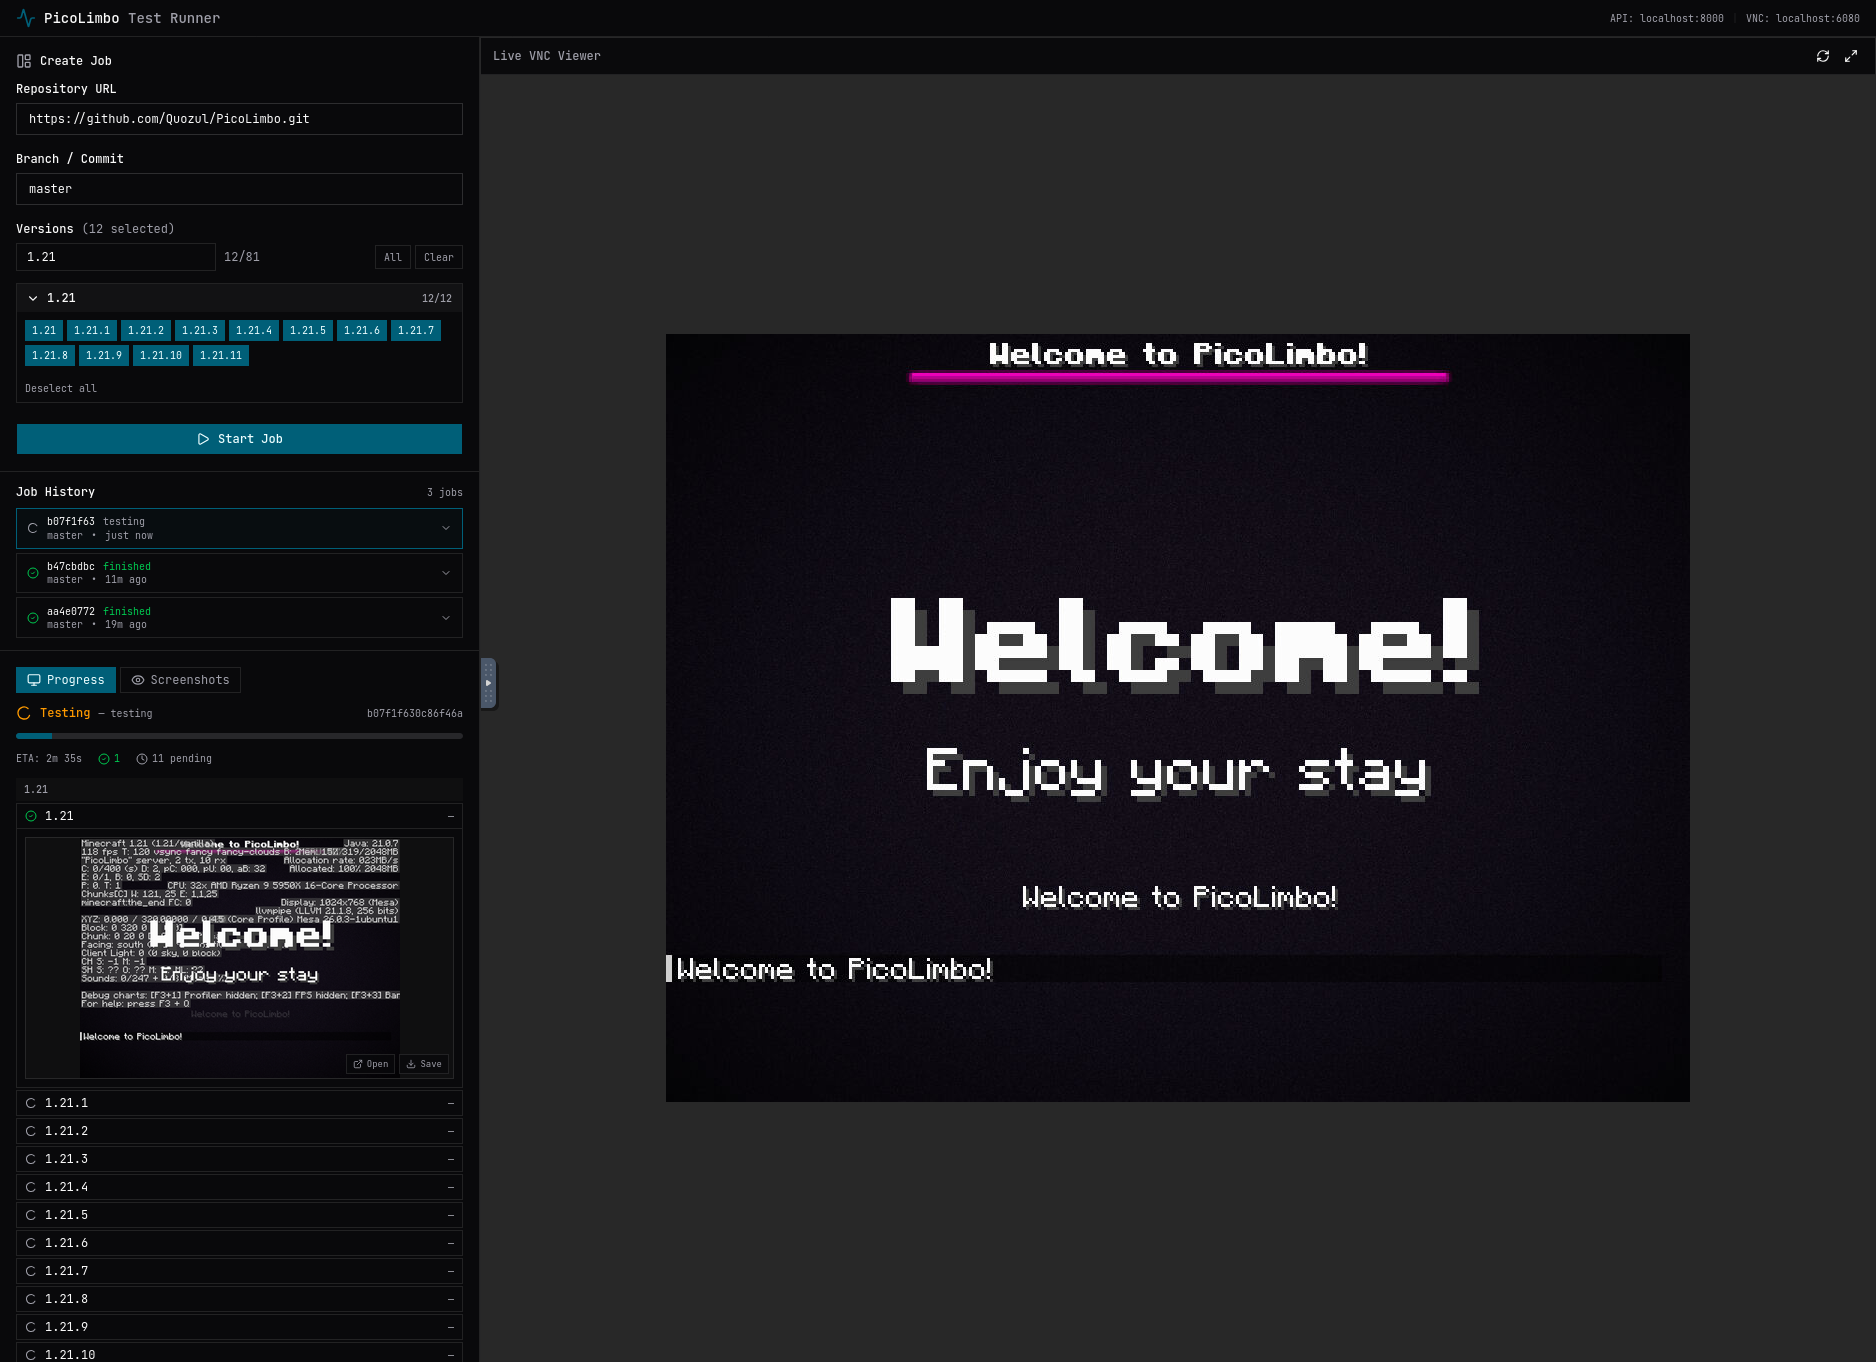
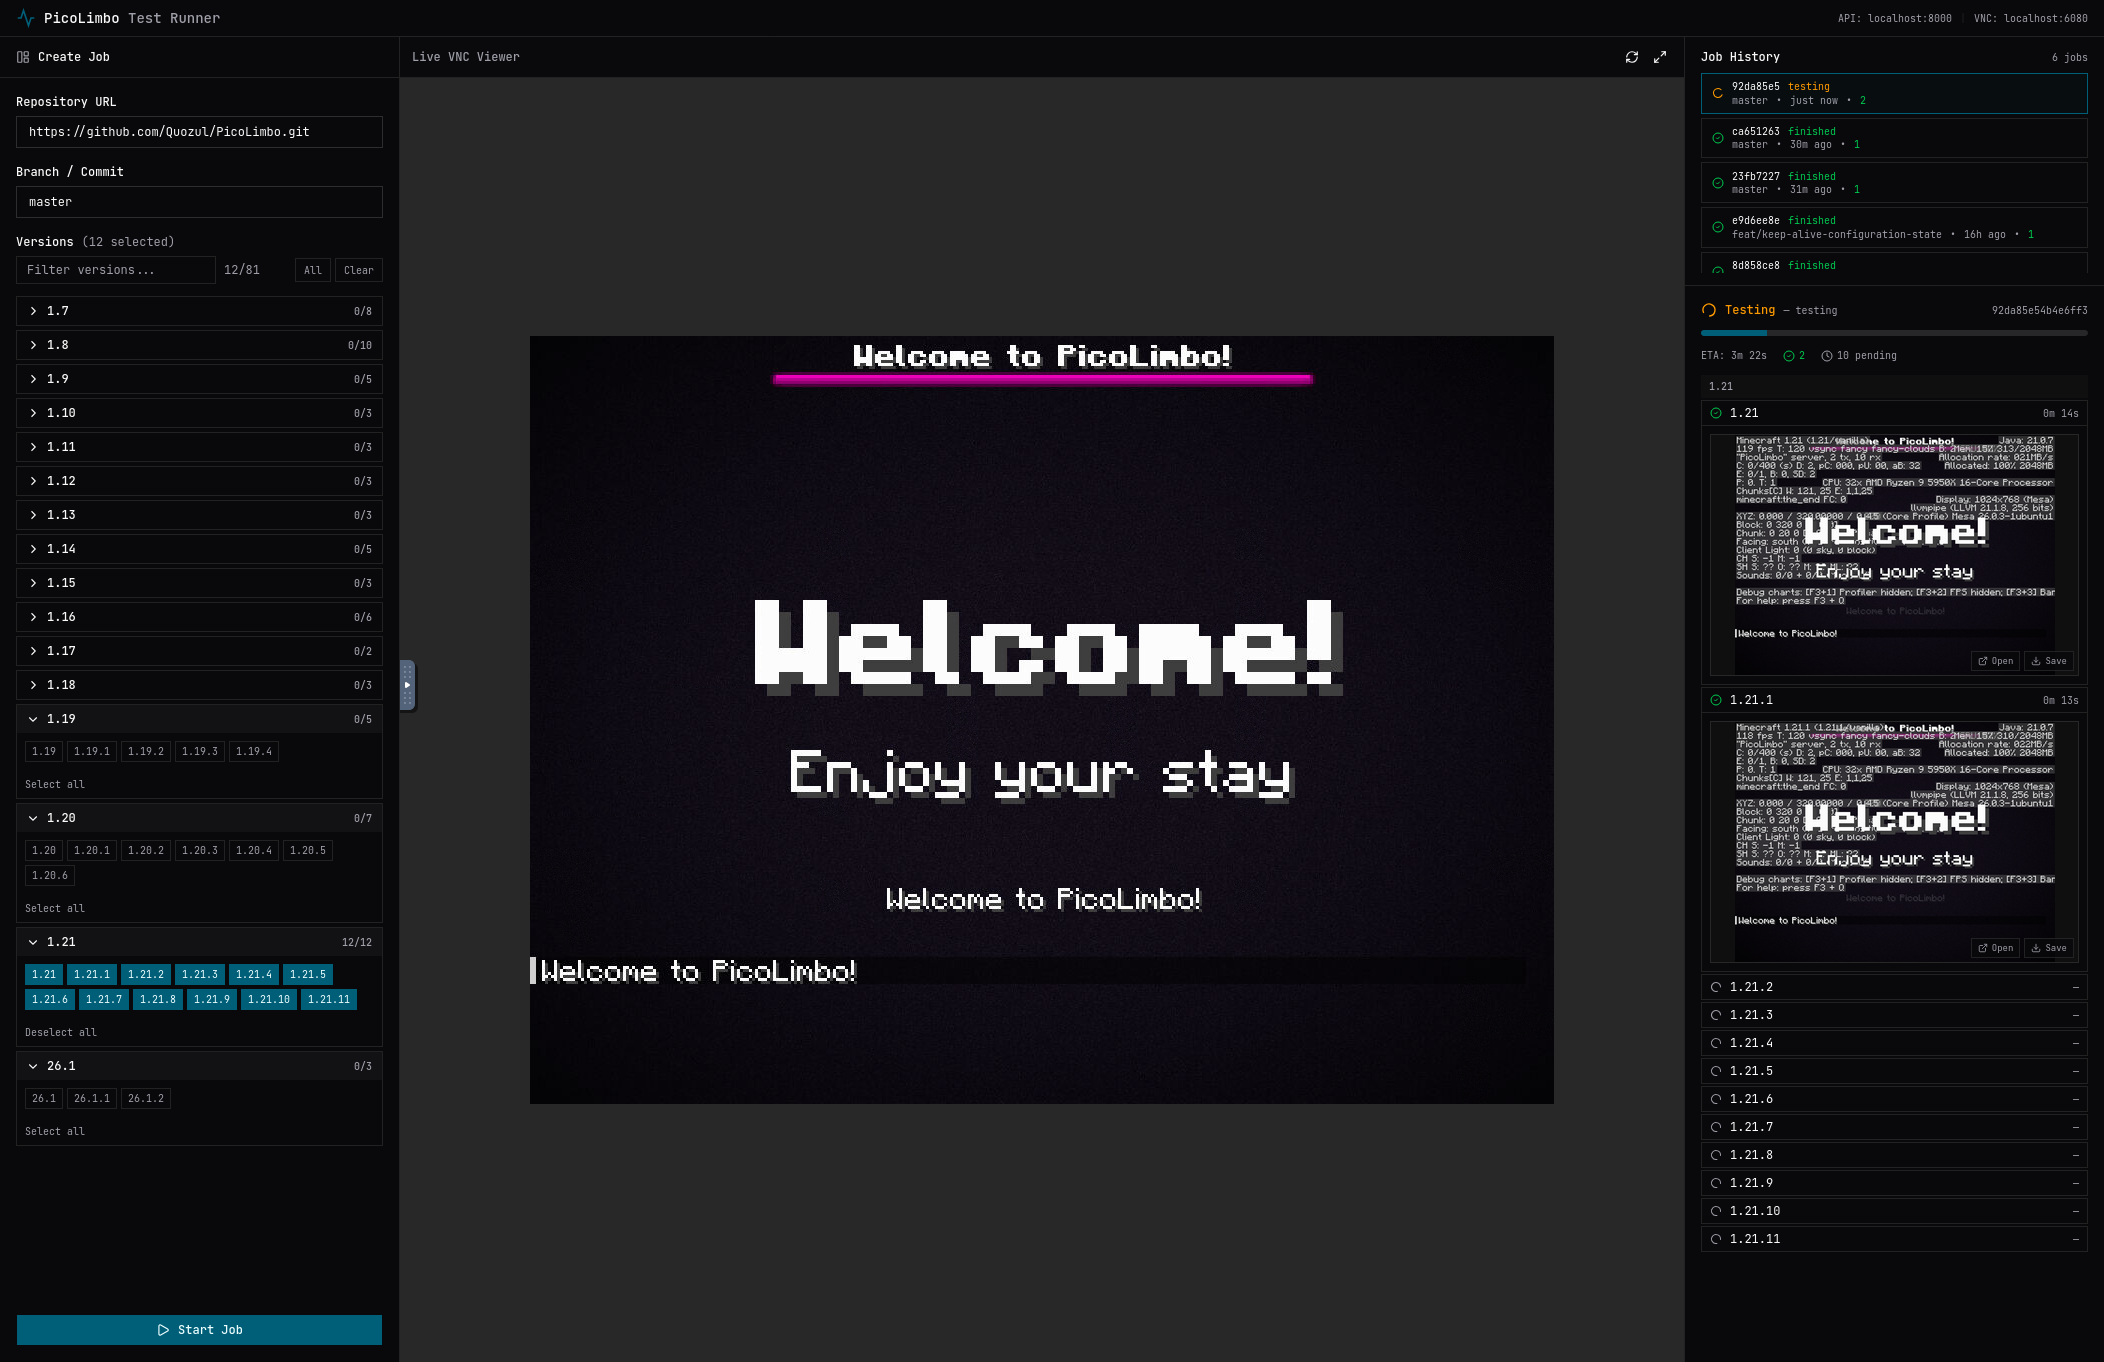
visual adjustements

diff --git a/webui/src/components/JobForm.tsx b/webui/src/components/JobForm.tsx
@@ -50,7 +50,7 @@ export function JobForm({ onJobCreated }: JobFormProps) {
   )
 
   return (
-    <form onSubmit={handleSubmit} className="flex flex-col gap-4">
+    <form onSubmit={handleSubmit} className="flex flex-col gap-4 h-full overflow-hidden">
       {/* Repo URL */}
       <div className="flex flex-col gap-1.5">
         <Label htmlFor="repo-url" className="text-xs">
@@ -79,7 +79,7 @@ export function JobForm({ onJobCreated }: JobFormProps) {
       </div>
 
       {/* Version Selector */}
-      <div className="flex flex-col gap-1.5">
+      <div className="flex flex-col gap-1.5 overflow-y-hidden grow">
         <Label className="text-xs">
           Versions{" "}
           <span className="text-muted-foreground font-normal">

diff --git a/webui/src/components/VersionSelector.tsx b/webui/src/components/VersionSelector.tsx
@@ -73,7 +73,7 @@ export function VersionSelector({ selected, onChange }: VersionSelectorProps) {
   const totalCount = ALL_VERSIONS.length
 
   return (
-    <div className="flex flex-col gap-3">
+    <div className="flex flex-col gap-3 overflow-y-hidden">
       {/* Toolbar */}
       <div className="flex items-center gap-2 flex-wrap">
         <input
@@ -105,7 +105,7 @@ export function VersionSelector({ selected, onChange }: VersionSelectorProps) {
       </div>
 
       {/* Version Groups */}
-      <div className="flex flex-col gap-1 max-h-[320px] overflow-y-auto scrollbar-thin">
+      <div className="flex flex-col gap-1 overflow-y-auto scrollbar-thin">
         {filteredGroups.map(group => {
           const versions = GROUPED_VERSIONS[group]
           const groupSelected = versions.filter(v => selected.has(v.label))

diff --git a/webui/src/components/JobCreation.tsx b/webui/src/components/JobCreation.tsx
@@ -13,7 +13,7 @@ export function JobCreation({ onJobCreated }: JobCreationProps) {
         <LayoutPanelLeft className="size-3.5 text-muted-foreground" />
         <h2 className="text-xs font-medium">Create Job</h2>
       </div>
-      <div className="flex-1 overflow-y-auto px-4 py-4">
+      <div className="flex-1 overflow-y-hidden px-4 py-4">
         <JobForm onJobCreated={onJobCreated} />
       </div>
     </div>

diff --git a/webui/src/components/JobInfoPanel.tsx b/webui/src/components/JobInfoPanel.tsx
@@ -25,7 +25,7 @@ export function JobInfoPanel({ activeJob, onSelectJob }: JobInfoPanelProps) {
         ) : (
           <div className="flex flex-col items-center justify-center py-16 text-center gap-3">
             <svg
-              className="size-12 text-muted-foreground/30"
+              className="size-12 text-muted-foreground"
               viewBox="0 0 24 24"
               fill="none"
               stroke="currentColor"